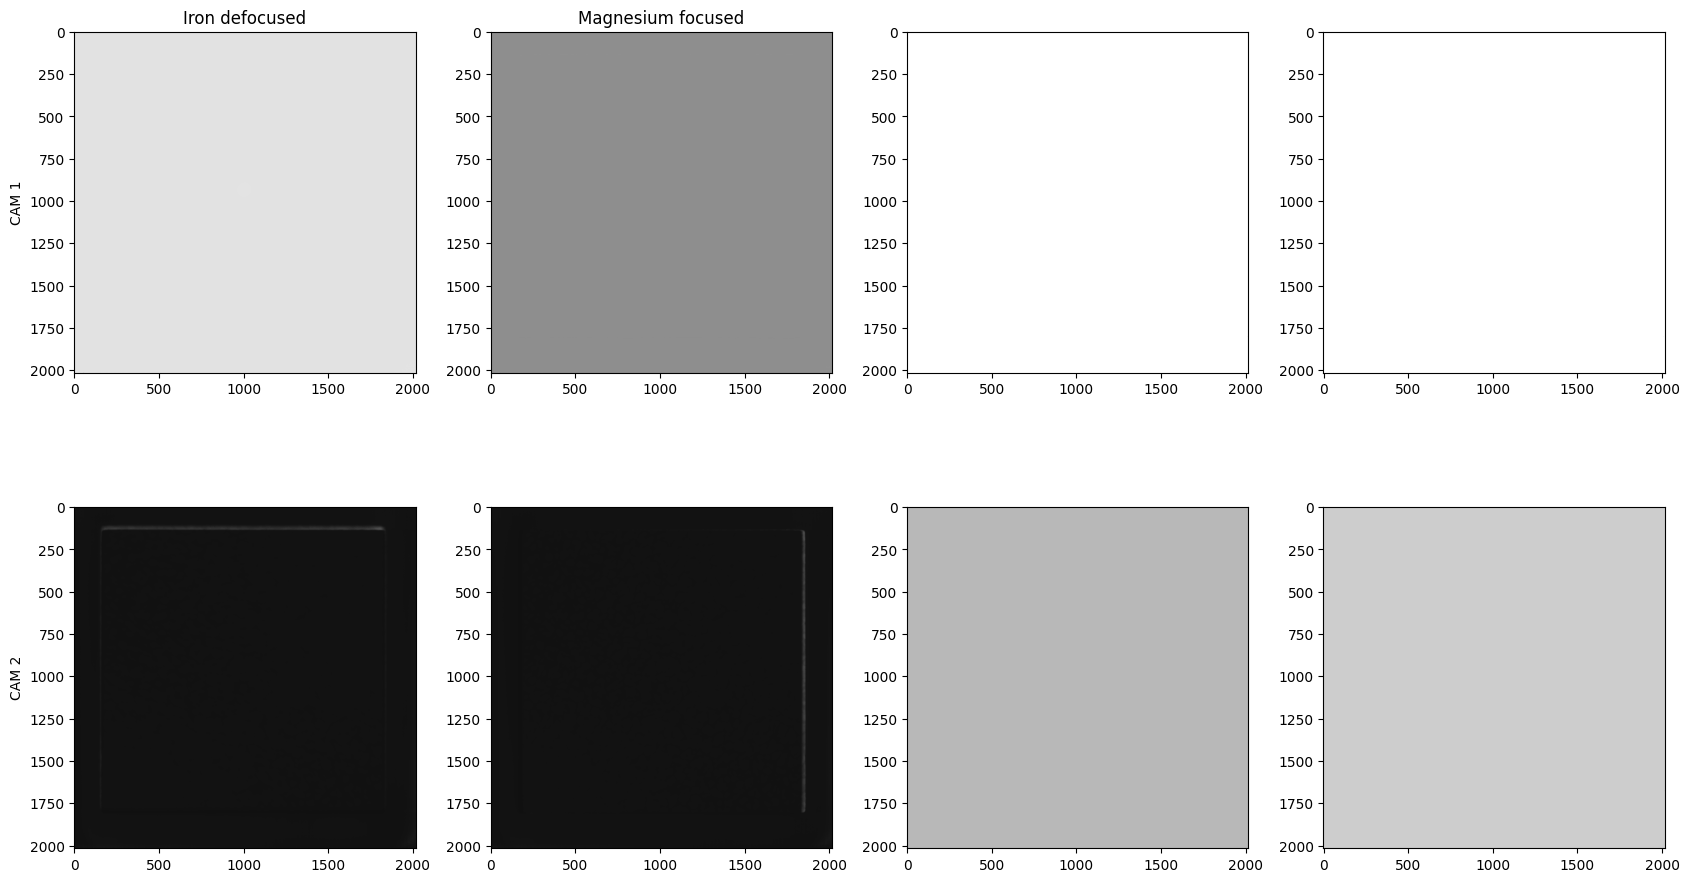
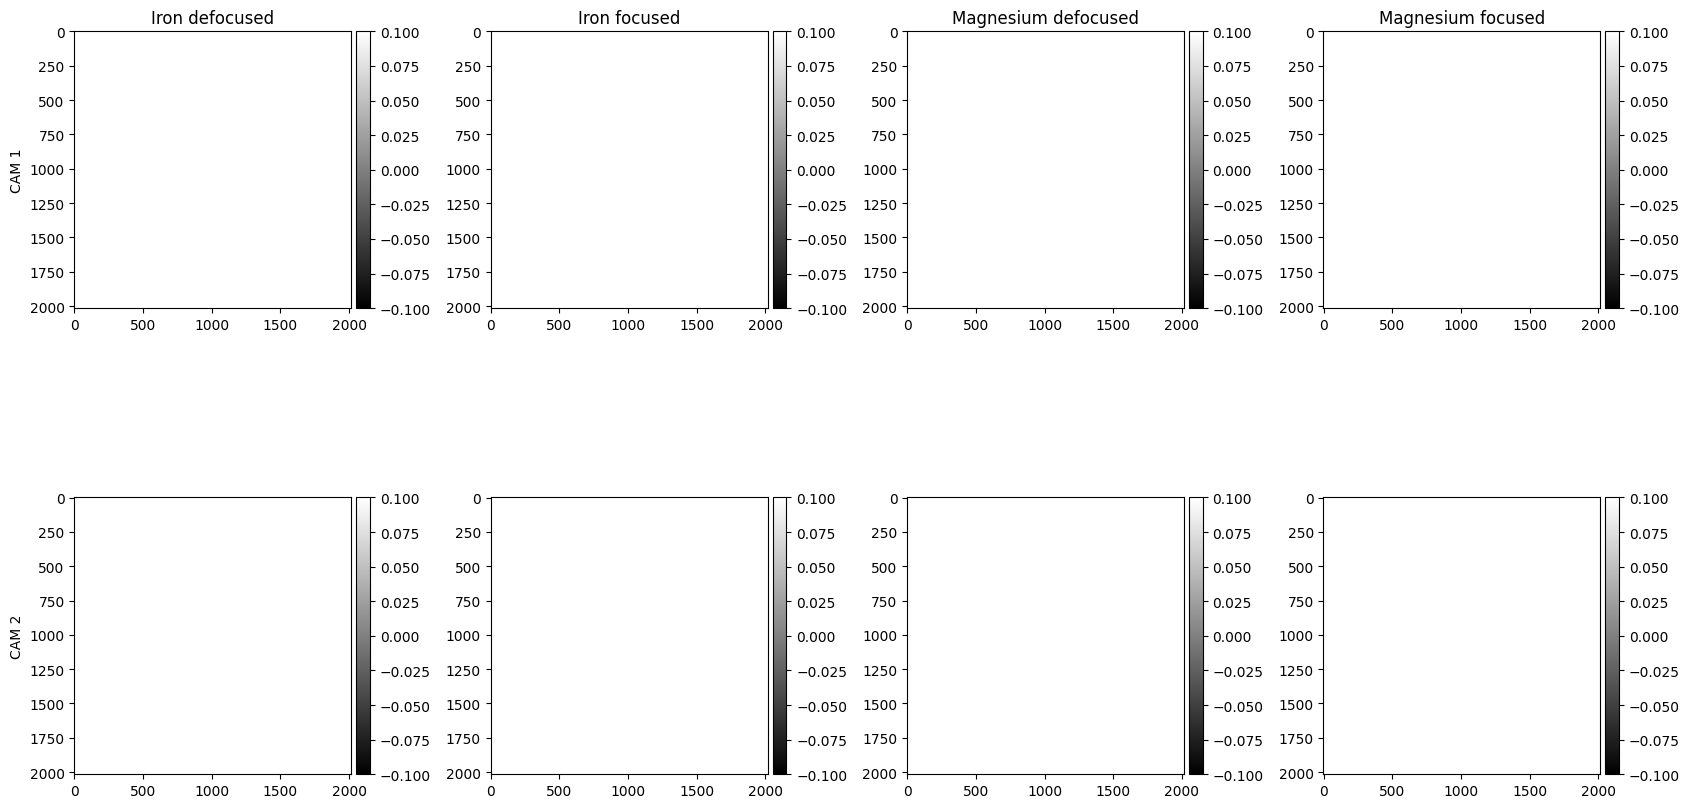
pd stuff

diff --git a/Analysis/pd_test.py b/Analysis/pd_test.py
@@ -44,10 +44,20 @@ dc = compute_master_darks(dark_paths[:-6], verbose = True) # There is something 
 ff_obs1, ff_obs1_info = compute_master_flat_field(ff_obs1_paths, dc = dc, verbose = True)
 ff_obs2, ff_obs2_info = compute_master_flat_field(ff_obs2_paths, dc = dc, verbose = True)
 
+# Find field-stop
+fs_c1, fs_c2 = compute_alignment(flat_cam1 = ff_obs1[0, -1, 0] / np.max(ff_obs1[0, -1, 0]),
+                                 flat_cam2 = ff_obs1[1, -1, 0] / np.max(ff_obs1[1, -1, 0]), pinhole_c1_path=pinholes_paths[0], 
+                                 pinhole_c2_path=pinholes_paths[1], 
+                                 method = 'pinhole', plot_flag=True, verbose = True)
+
+
+# Field stop and align
+ff_obs1 = apply_fieldstop_and_align_array(ff_obs1, fs_c1, fs_c2)
+ff_obs2 = apply_fieldstop_and_align_array(ff_obs2, fs_c1, fs_c2)
+
 # Select continuum wavelength and modulation 0 and normalize
 ff_1 = ff_obs1[:, -1, 0] / np.max(ff_obs1[:, -1, 0])
 ff_2 = ff_obs2[:, -1, 0] / np.max(ff_obs2[:, -1, 0])
-
 
 fig, axs = plt.subplots(2, 3, figsize = (10, 10))
 im = axs[0, 0].imshow(ff_1[0], cmap = "magma")
@@ -78,48 +88,56 @@ plt.colorbar(im, cax=cax)
 plt.tight_layout()
 plt.savefig("flats_n_darks.png", bbox_inches = 'tight')
 
-
 # flat field both cams, cont wave, modul 0. 
-pd_data_fe = pd.process_pd_observation(pd_indexes, filt = 0, dc = dc, ff = ff_2, verbose = True) 
-pd_data_mg = pd.process_pd_observation(pd_indexes, filt = 1, dc = dc, ff = ff_1, verbose = True) 
+pd_data_fe = pd.process_pd_observation(pd_indexes, filt = 0, verbose = True) 
+pd_data_mg = pd.process_pd_observation(pd_indexes, filt = 1, verbose = True) 
+
 
 print("Plotting...")
 
 fig, axs = plt.subplots(2, 4, figsize = (17, 10))
 im = axs[0, 0].set_title("Iron defocused")
 im = axs[0, 1].set_title("Iron focused")
-im = axs[0, 1].set_title("Magnesium defocused")
-im = axs[0, 1].set_title("Magnesium focused")
+im = axs[0, 2].set_title("Magnesium defocused")
+im = axs[0, 3].set_title("Magnesium focused")
 
-im = axs[0, 0].imshow(pd_data_fe[0, 0, 0], cmap = "gray")
+im = axs[0, 0].imshow(pd_data_fe[0, 0, 1], cmap = "gray", vmin = np.mean(pd_data_fe[0, 0, 0]) - np.std(pd_data_fe[0, 0, 0]) * 2,
+                                                          vmax = np.mean(pd_data_fe[0, 0, 0]) + np.std(pd_data_fe[0, 0, 0]) * 2 )
 divider = make_axes_locatable(axs[0, 0])
 cax = divider.append_axes("right", size="5%", pad=0.05)
 plt.colorbar(im, cax=cax)
-im = axs[0, 1].imshow(pd_data_fe[0, 1, 0], cmap = "gray")
+im = axs[0, 1].imshow(pd_data_fe[0, 1, 1], cmap = "gray", vmin = np.mean(pd_data_fe[0, 1, 0]) - np.std(pd_data_fe[0, 1, 0]) * 2,
+                                                          vmax = np.mean(pd_data_fe[0, 1, 0]) + np.std(pd_data_fe[0, 1, 0]) * 2 )
 divider = make_axes_locatable(axs[0, 1])
 cax = divider.append_axes("right", size="5%", pad=0.05)
 plt.colorbar(im, cax=cax)
-im = axs[0, 2].imshow(pd_data_mg[0, 0, 0], cmap = "gray")
+im = axs[0, 2].imshow(pd_data_mg[0, 0, 1], cmap = "gray", vmin = np.mean(pd_data_mg[0, 0, 0]) - np.std(pd_data_mg[0, 0, 0]) * 2,
+                                                          vmax = np.mean(pd_data_mg[0, 0, 0]) + np.std(pd_data_mg[0, 0, 0]) * 2 )
 divider = make_axes_locatable(axs[0, 2])
 cax = divider.append_axes("right", size="5%", pad=0.05)
 plt.colorbar(im, cax=cax)
-im = axs[0, 3].imshow(pd_data_mg[0, 1, 0], cmap = "gray")
+im = axs[0, 3].imshow(pd_data_mg[0, 1, 1], cmap = "gray", vmin = np.mean(pd_data_mg[0, 1, 0]) - np.std(pd_data_mg[0, 1, 0]) * 2,
+                                                          vmax = np.mean(pd_data_mg[0, 1, 0]) + np.std(pd_data_mg[0, 1, 0]) * 2 )
 divider = make_axes_locatable(axs[0, 3])
 cax = divider.append_axes("right", size="5%", pad=0.05)
 plt.colorbar(im, cax=cax)
-im = axs[1, 0].imshow(pd_data_fe[1, 0, 0], cmap = "gray")
+im = axs[1, 0].imshow(pd_data_fe[1, 0, 1], cmap = "gray", vmin = np.mean(pd_data_fe[1, 0, 0]) - np.std(pd_data_fe[1, 0, 0]) * 2,
+                                                          vmax = np.mean(pd_data_fe[1, 0, 0]) + np.std(pd_data_fe[1, 0, 0]) * 2 )
 divider = make_axes_locatable(axs[1, 0])
 cax = divider.append_axes("right", size="5%", pad=0.05)
 plt.colorbar(im, cax=cax)
-im = axs[1, 1].imshow(pd_data_fe[1, 1, 0], cmap = "gray")
+im = axs[1, 1].imshow(pd_data_fe[1, 1, 1], cmap = "gray", vmin = np.mean(pd_data_fe[1, 1, 0]) - np.std(pd_data_fe[1, 1, 0]) * 2,
+                                                          vmax = np.mean(pd_data_fe[1, 1, 0]) + np.std(pd_data_fe[1, 1, 0]) * 2 )
 divider = make_axes_locatable(axs[1, 1])
 cax = divider.append_axes("right", size="5%", pad=0.05)
 plt.colorbar(im, cax=cax)
-im = axs[1, 2].imshow(pd_data_mg[1, 0, 0], cmap = "gray")
+im = axs[1, 2].imshow(pd_data_mg[1, 0, 1], cmap = "gray", vmin = np.mean(pd_data_mg[1, 0, 0]) - np.std(pd_data_mg[1, 0, 0]) * 2,
+                                                          vmax = np.mean(pd_data_mg[1, 0, 0]) + np.std(pd_data_mg[1, 0, 0]) * 2 )
 divider = make_axes_locatable(axs[1, 2])
 cax = divider.append_axes("right", size="5%", pad=0.05)
 plt.colorbar(im, cax=cax)
-im = axs[1, 3].imshow(pd_data_mg[1, 1, 0], cmap = "gray")
+im = axs[1, 3].imshow(pd_data_mg[1, 1, 1], cmap = "gray", vmin = np.mean(pd_data_mg[1, 1, 0]) - np.std(pd_data_mg[1, 1, 0]) * 2,
+                                                          vmax = np.mean(pd_data_mg[1, 1, 0]) + np.std(pd_data_mg[1, 1, 0]) * 2 )
 divider = make_axes_locatable(axs[1, 3])
 cax = divider.append_axes("right", size="5%", pad=0.05)
 plt.colorbar(im, cax=cax)

diff --git a/field_stop_finder.py b/field_stop_finder.py
@@ -77,7 +77,6 @@ def find_fieldstop(cam1 = None, verbose = False, plot_flag = False, margin = mar
 
     # Selecting the innermost points (in case border is tilted)
 
-    print(vcuts_bottom_c1)
     vcut_right_c1 = np.min(hcuts_left_c1) - margin 
     vcut_left_c1 = np.max(hcuts_right_c1) + margin
     hcut_top_c1 = np.min(vcuts_bottom_c1) - margin
@@ -96,9 +95,6 @@ def find_fieldstop(cam1 = None, verbose = False, plot_flag = False, margin = mar
         axs[0].set_ylabel("Cam 1")
         plt.tight_layout()
         plt.show()
-
-    if verbose:
-        print(f"Cam 1 Field stop: {cam1_fieldstop}\nHeight : {cam1_fieldstop[0][1] - cam1_fieldstop[0][0]}\nWidth : {cam1_fieldstop[1][1] - cam1_fieldstop[1][0]}")
 
     print(f"Field stop computation finished in {round(time.time() - tic, 3)}s.")
 
@@ -153,7 +149,8 @@ def compute_alignment(flat_cam1, flat_cam2 = None, pinhole_c1_path = None,
         # Read Pinhole images
 
         if verbose:
-            print("Computing alignment with pinholes..")
+            print("\nComputing alignment with pinholes..")
+            print(f"------------------------------------")
 
         if pinhole_c1_path == None or pinhole_c2_path == None:
             raise Exception("Provide pinhole paths for pinhole alignment.")

diff --git a/phase_diversity.py b/phase_diversity.py
@@ -71,7 +71,7 @@ def pd_observation_parser(indexes, verbose = False):
 
     return images_ordered
 
-def process_pd_observation(indexes, filt, dc, ff, verbose = False):
+def process_pd_observation(indexes, filt, verbose = False):
 
     print("Processing PD observation...")
 
@@ -88,6 +88,6 @@ def process_pd_observation(indexes, filt, dc, ff, verbose = False):
             for Nimg in range(Nims_pd):
                 print(Nimg)
                 I, _ = ih.read(paths[cam, pd, Nimg])
-                images[cam, pd, Nimg] = (I - dc[cam]) / ff[cam]
+                images[cam, pd, Nimg] = I
 
     return images

diff --git a/image_handler.py b/image_handler.py
@@ -20,7 +20,7 @@ from utils import read_Tumag
 import config as cf
 
 # Config
-Organization_folder_files = "/home/users/dss/orozco/Tumag/PabloTests/Organized_files"
+Organization_folder_files = "Organized_files"
 
 # ------------------------------  CODE  ------------------------------------------ # 
 

diff --git a/Documents/Working_with_Tumags_data.md b/Documents/Working_with_Tumags_data.md
@@ -1,0 +1,71 @@
+# Working with TuMag's data. 
+
+TuMag data is stored in the SPG's server in "work/obs/TuMAG_data" and stored in different directories depending on the the day and hour of the observation. 
+
+To identify the images belonging to scientific observations, all observation-related images of TuMag have been assigned a unique ID. The ID's have the structure: DXX-YYYY. Where the DXX stands for the day of the measurement: (D09, D10, D11, ... , D16), and YYYY is a cardinal number to identify the specific image within that day. 
+
+There is a csv file for each day where all images are labeled with the specific path to the image within the server. The files are provided in this repository in the the [Organized files](../Organized_files/) folder. 
+
+To identify an image just go to the csv file corresponding to the "DXX" and search the image labeled with YYYY. 
+
+#### <ins>Example</ins>
+
+Image: D11-102. 
+
+From file [D11.csv](../Organized_files/D11.csv#L103) in line 103 (ID's start at 0):
+- 102,/work/obs/TuMAG_data/2024_07_11_00_00_00_123/2024_07_11_00_00_00_123/2024_07_11_00_00_45_321_1_9189.img
+
+
+## Identifying observations. 
+
+All observations are recorded in the [TuMag's Logbook](TuMagCompass.csv) file. All timelines are detailed in the file with all the observation and calibration blocks indicated. 
+
+Every observation block has a column where the ID's are noted down. The format of labelling the observation block is "DXX-YYYY-ZZZZ". This indicates that the images composing the observation range from the image DXX-YYYY to DXX-ZZZZ, including all images in between. Some times different quearys appear in these cells, meaning that the images are separated.
+
+Please read the remarks (sometimes difficult to understand even for the one who wrote them...)because sometimes are missing files, aborted observations, etc...   
+
+#### <ins>Example of labeled timeline</ins>
+![Screenshot](Images_for_guides/example_guide_indexes.png)
+
+
+If working locally, just download the data and you are good to go! 
+
+## Working in SPG' server (recommended). 
+
+If you want to work directly on the server there are a few tools that allow you to use the indexes smoothly.
+
+In the first place, ensure you have installed the enviroment with the required libraries and activated it. See the [installation guide](Installation.md) for details.
+
+#### <ins>Reading a specific image.</ins>
+
+The [image_handler](image_handler.py) module includes the function: [read_ID](image_handler.py#L258). Provided with an index of an image returns the Image (2D numpy array) and its header. 
+
+- Example of use:
+```python
+I, H = image_handler.read_ID("D11-1917")
+```
+Please refer to the function for more info. 
+
+#### <ins>Obtaining the paths of multiple images.</ins>
+
+The [image_handler](image_handler.py) module includes the function: [get_images_paths](image_handler.py#L216). This function returns the paths of the images between two indexes of a specific file. It can be given multiple queries if images from different files are required.
+
+- Example of use:
+```python
+paths = image_handler.get_images_paths([["D11-1917-5620"], ["D12-302-17000"]])
+```
+or 
+```python
+paths = image_handler.get_images_paths("D11-1917-5620")
+```
+
+The paths variable will include all paths for the images between index 1917 and 5620 of file "D11.csv" and from 302 to 17000 of file "D12.csv" in the first example. 
+
+#### <ins>Reading a specific image from terminal:</ins>
+
+The module [Check_image_id](Check_image_id.py) can be called in the terminal line to read an image given an image index. By default it only prints the observation mode and counter. But if the word "plot" and/or "header" is added to the command line will also plot and print the header, respectively.
+
+- Example of use:
+```shell
+python3 Check_image_id.py D11-1500 plot header
+```

diff --git a/README.md b/README.md
@@ -25,84 +25,16 @@ Disclaimer: Very early still...
 - [Contributing](#contributing)
 - [License](#license)
 
-## Installation of required libraries. 
+#Installation of required libraries. 
 
-All the required libraries are included in the [requirements.txt](requirements.txt) file. Install them globaly or through an enviroment. 
 
-If using the IAA server (recomended to be able to use images IDs) the use of an enviroment is mandatory. 
-
-### Installing the dependencies with an enviroment. 
-
-- Anywhere on your directories -> run the command: 
-```shell
-"python3 -m venv $myenv$"
-```
-Substituting "$myenv$" for whatever name you want to give it. 
-- Activate the enviroment: run the command: 
-```shell
-source $myenv$/bin/activate.csh
-```
-Again substitute the name of "$myenv$". 
-
-If the previous command raises an error complaining about aliases remove the .csh: 
-```shell
-source $myenv$/bin/activate
-```
-
-- Install dependencies: 
-```shell
-pip install -r requirements.txt
-```
-
-You should be able to run any script after the installation finishes with the enviroment activated. 
 
 ## Usage
 
-### Working with image ID's
-
-This option is only valid when working with IAA's server. 
-
-Image IDs have the format DXX-YYYY. The DXX points to the csv file in the [Organized files](Organized_files/) directory where the image's path is stored. And the YYYY is the individual index of the image within that file (first column). 
-Image IDs can be found in the csv files. A guide to the observations labeled with image indexes can be found in the Documents directory under the name of: "TuMag's Compass" (to be uploaded). 
-
-#### <ins>Reading a specific image.</ins>
-
-The [image_handler](image_handler.py) module includes the function: [read_ID](image_handler.py#L258). Provided with an index of an image returns the Image (2D numpy array) and its header. 
-
-- Example of use:
-```python
-I, H = image_handler.read_ID("D11-1917")
-```
-Please refer to the function for more info. 
-
-#### <ins>Obtaining the paths of multiple images.</ins>
-
-The [image_handler](image_handler.py) module includes the function: [get_images_paths](image_handler.py#L216). This function returns the paths of the images between two indexes of a specific file. It can be given multiple queries if images from different files are required.
-
-- Example of use:
-```python
-paths = image_handler.get_images_paths([["D11-1917-5620"], ["D12-302-17000"]])
-```
-or 
-```python
-paths = image_handler.get_images_paths("D11-1917-5620")
-```
-
-The paths variable will include all paths for the images between index 1917 and 5620 of file "D11.csv" and from 302 to 17000 of file "D12.csv" in the first example. 
-
-#### <ins>Reading a specific image from terminal:</ins>
-
-The module [Check_image_id](Check_image_id.py) can be called in the terminal line to read an image given an image index. By default it only prints the observation mode and counter. But if the word "plot" and/or "header" is added to the command line will also plot and print the header, respectively.
-
-- Example of use:
-```shell
-python3 Check_image_id.py D11-1500 plot header
-```
-
 
 ## Contributing
-- Pablo (psanta@iaa.es)
 
+SPG team.
 
 ## License
 GPL 3.0? 

diff --git a/Documents/Installation.md b/Documents/Installation.md
@@ -1,0 +1,30 @@
+# Installation guide
+
+All the required libraries are included in the [requirements.txt](../requirements.txt) file. Install them globaly or through an enviroment. 
+
+If using the IAA server (recomended to be able to use images IDs) the use of an enviroment is mandatory. 
+
+### Installing the dependencies with an enviroment. 
+
+- Anywhere on your directories -> run the command: 
+```shell
+"python3 -m venv $myenv$"
+```
+Substituting "$myenv$" for whatever name you want to give it. 
+- Activate the enviroment: run the command: 
+```shell
+source $myenv$/bin/activate.csh
+```
+Again substitute the name of "$myenv$". 
+
+If the previous command raises an error complaining about aliases remove the .csh: 
+```shell
+source $myenv$/bin/activate
+```
+
+- Install dependencies: 
+```shell
+pip install -r requirements.txt
+```
+
+You should be able to run any script after the installation finishes with the enviroment activated. 
